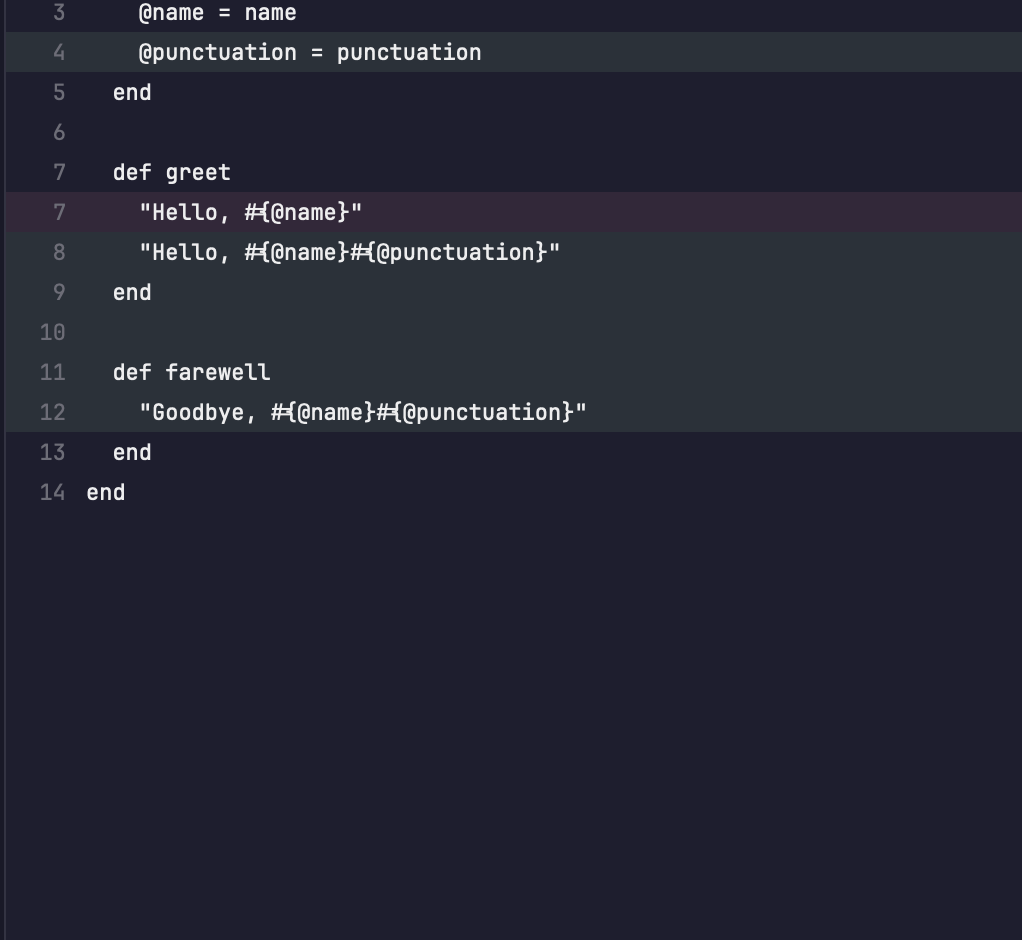
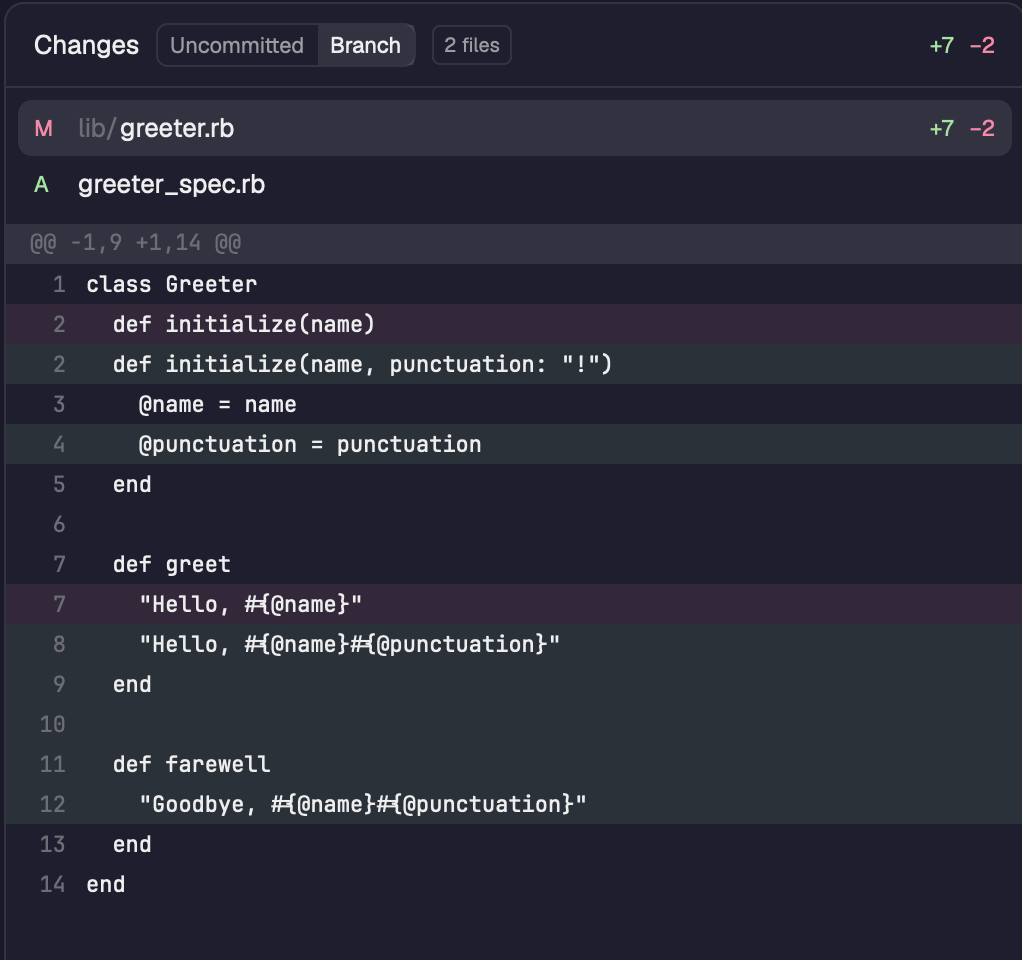
docs: fix preview crop and display size

diff --git a/README.md b/README.md
@@ -2,7 +2,7 @@
 
 A Changes panel for the [Herdr](https://herdr.dev) desktop app that can show everything on your branch, not only uncommitted work.
 
-![The Branch view](preview.png)
+<img src="preview.png" alt="The Branch view" width="440">
 
 Herdr's own Changes panel shows uncommitted changes. Once an agent commits its work, the panel is empty. This panel adds a toggle in its header:
 
